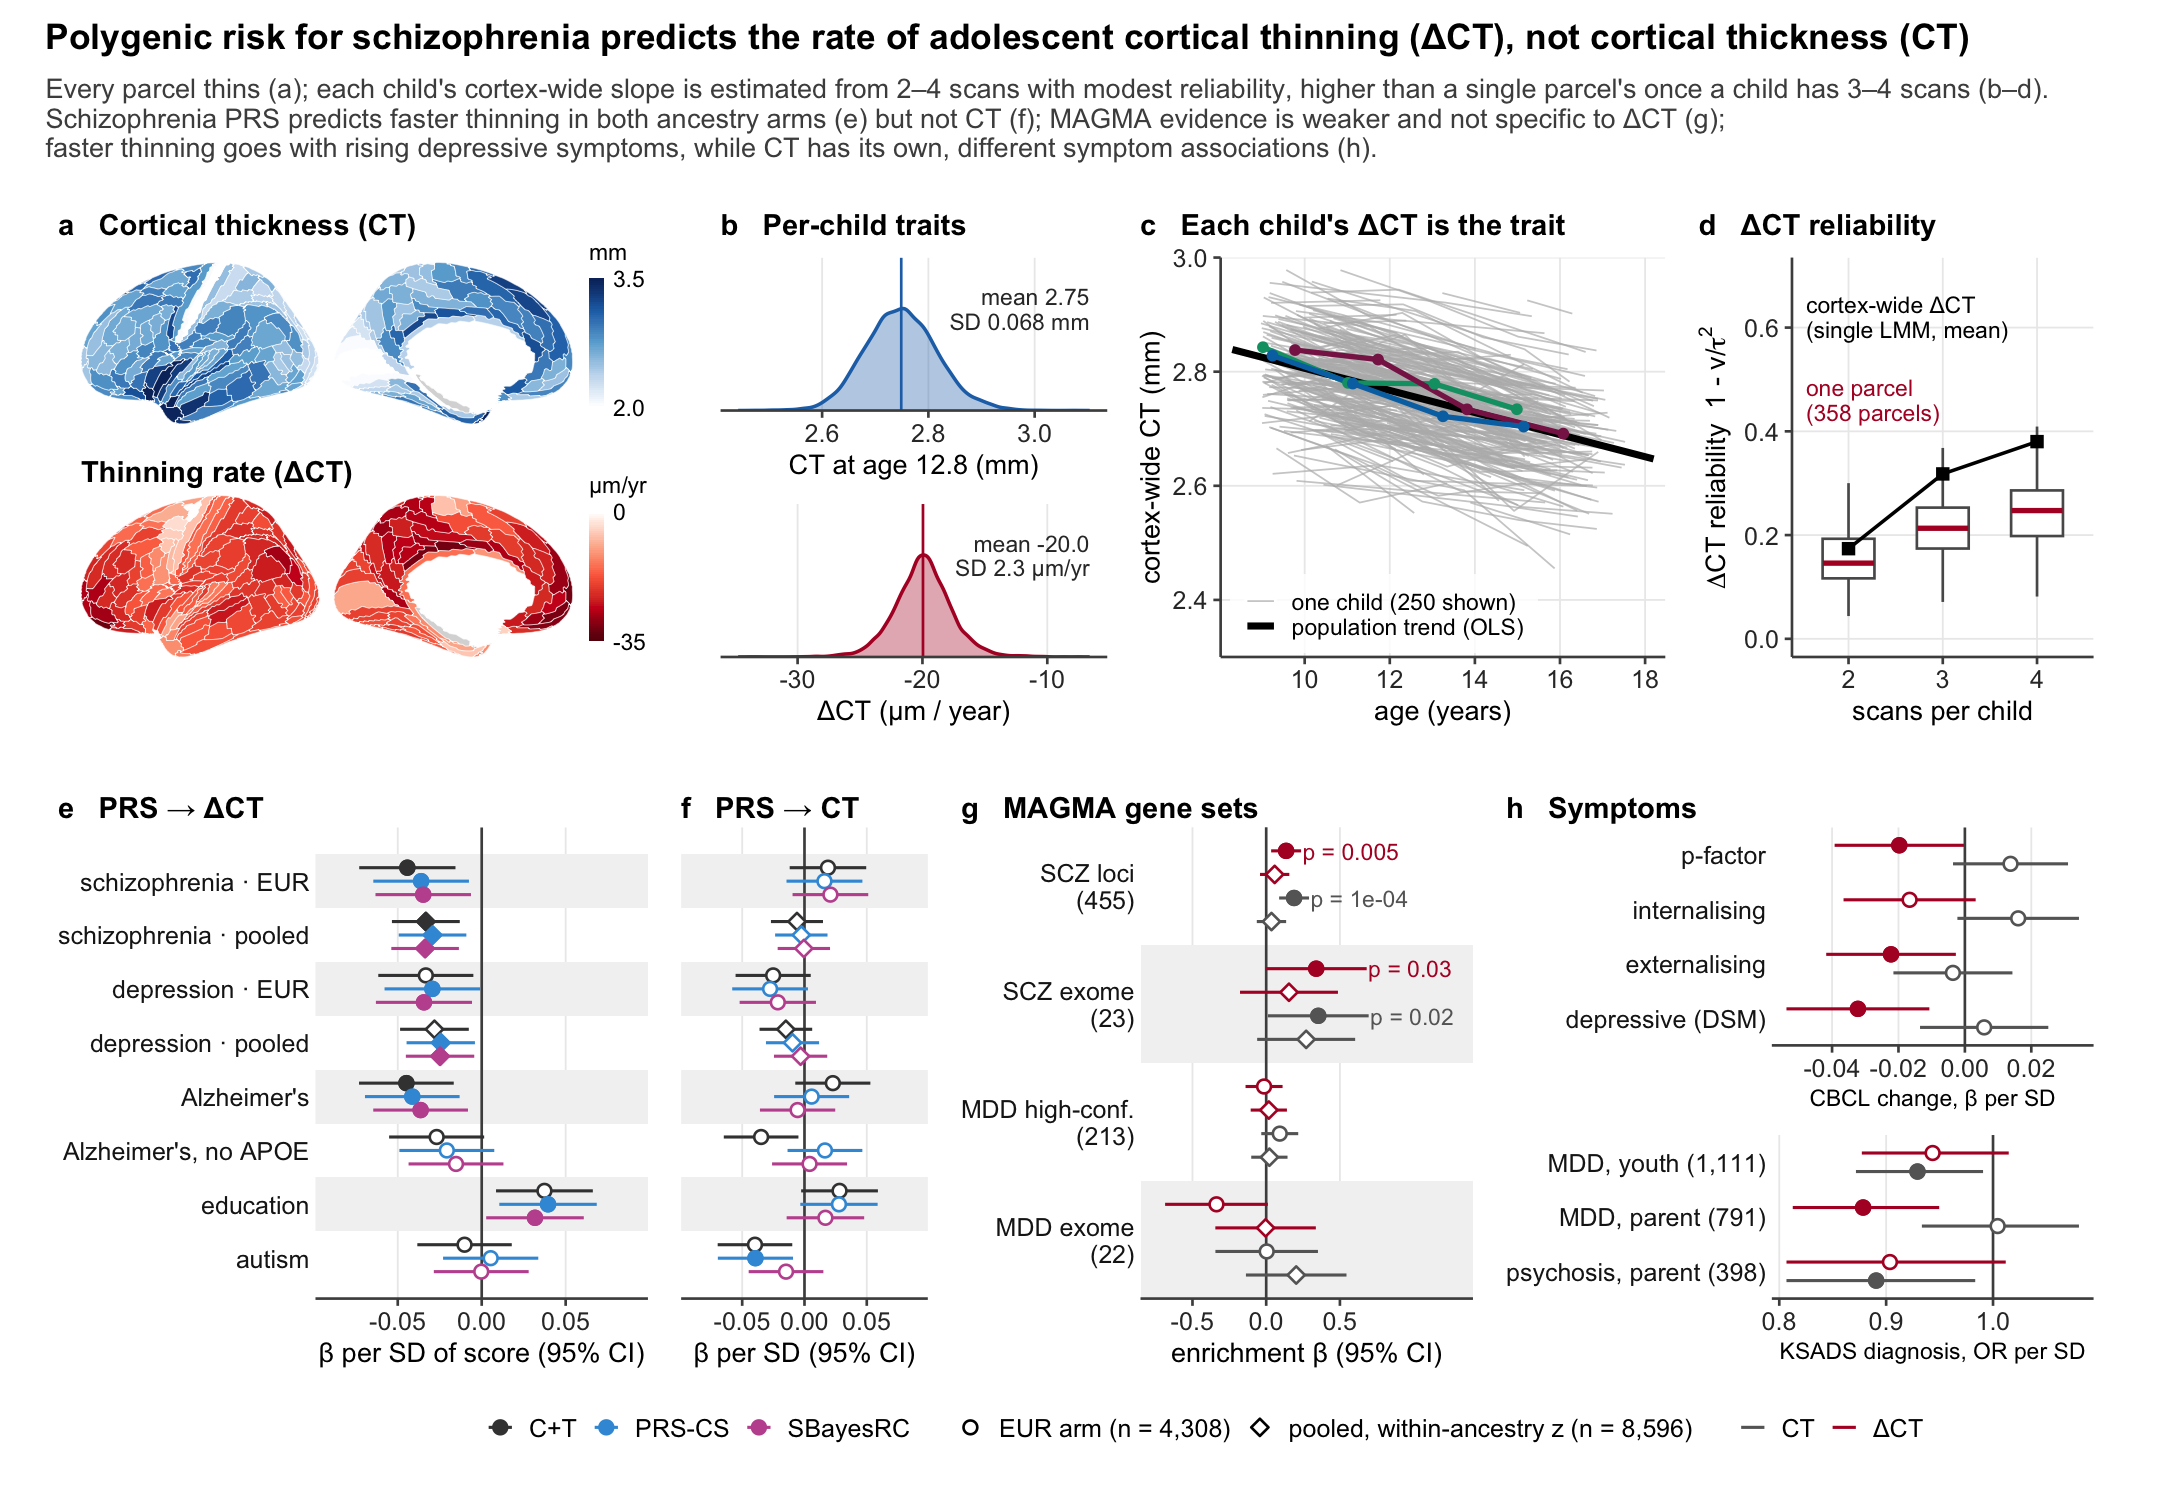
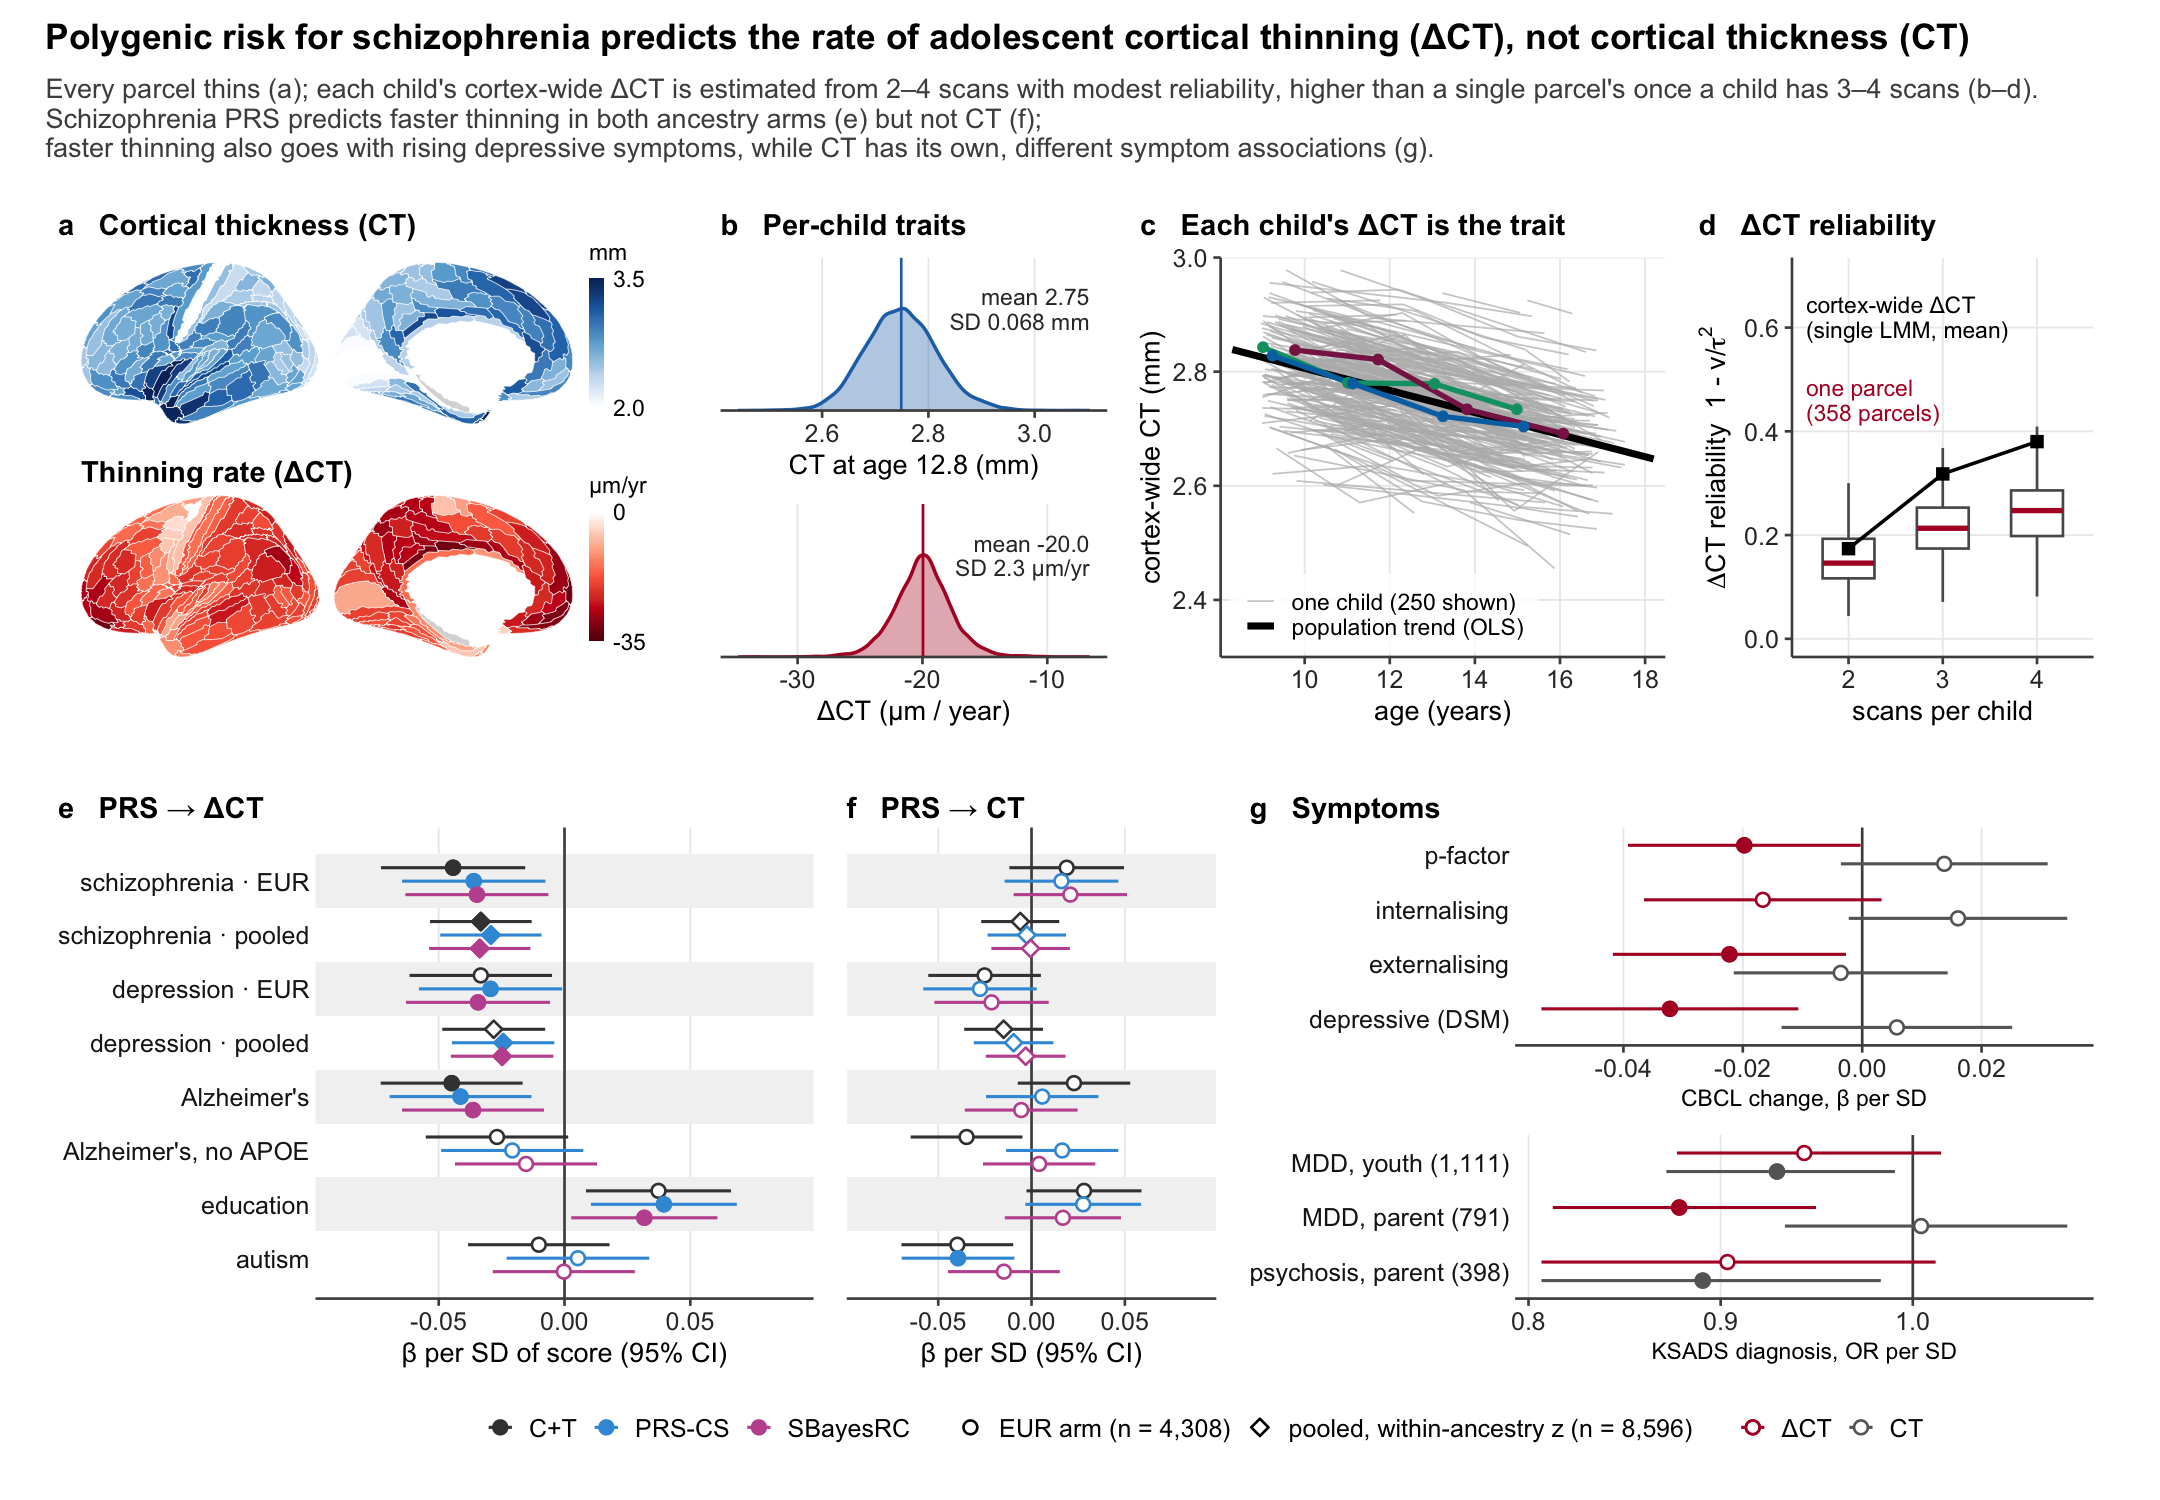
fig1: MAGMA panel removed (to SI); symptoms panel becomes g
Step 15 (0fbfe91) put ABCD's own EUR children behind the EUR-arm gene
analysis, and no gene set survives the matched LD reference on the ΔCT
phenotype (HCP, EUR_1000G -> EUR_ABCD): SCZ ST12 locus pool p .0046 -> .15,
SCZ exome .026 -> .050, MDD high-confidence .59 -> .31, MDD exome .97 -> .55.
The 1000G-EUR (n=503) enrichment was an LD-reference artefact, and it was
never ΔCT-specific anyway (CT equally or more enriched).  MAGMA carries no
direction and the directional genetic claim rests on e-f, so the panel added
no support the figure needs.  Seven panels now; e | f | g widths
0.62/0.46/0.72; CT/ΔCT colour key moved to g.  The caption's SI note states
the null so the result is reported, not dropped.  The fig1_inputs MAGMA
tables stay committed for the SI figure.

diff --git a/docs/figures/fig1_caption.md b/docs/figures/fig1_caption.md
@@ -4,14 +4,13 @@ CT and ΔCT are the intercept and slope of one linear mixed model per region (a)
 - **a** Group maps per parcel (bilateral mean, left hemisphere shown): mean per-child CT (1.7–3.8 mm) and ΔCT (-33 to -0.1 µm / year).
 - **b** Distributions of the two per-child traits from the single LMM on the per-scan cortical mean (8,716 children with 2 / 3 / 4 scans: 2,205 / 3,508 / 3,003; 26,946 scans): CT and ΔCT, the phenotypes of e–h. Per-child estimates are shrunk toward the mean (SD 2.3 µm/yr against a model between-child SD of 4.2 µm/yr); every child's estimated slope is negative.
 - **c** Per-scan cortical mean vs age for 250 random children (grey), three children with four scans (colour), population OLS trend -19 µm / year (black).
-- **d** Slope reliability 1 − v/τ², where v is a child's conditional (posterior) variance of the slope random effect and τ² the between-child slope variance: boxes, per-parcel LMMs (358 parcels; each value the mean over children; medians 0.15 / 0.21 / 0.25 for 2 / 3 / 4 scans); squares, the single LMM on the cortical mean (mean over children 0.17 / 0.32 / 0.38).
+- **d** ΔCT reliability 1 − v/τ², where v is a child's conditional (posterior) variance of the slope random effect and τ² the between-child slope variance: boxes, per-parcel LMMs (358 parcels; each value the mean over children; medians 0.15 / 0.21 / 0.25 for 2 / 3 / 4 scans); squares, the single LMM on the cortical mean (mean over children 0.17 / 0.32 / 0.38).
 - **e, f** PRS association with ΔCT (e) and CT (f); β per SD with 95% CI. Schizophrenia (2025 GWAS): ΔCT 3/3 EUR / 3/3 pooled, CT 0/3 / 0/3. Alzheimer's 3/3 with APOE, 0/3 without; depression 2/3 / 2/3; education 2/3 (opposite sign); autism 0/3.
-- **g** MAGMA competitive gene-set enrichment (ΔCT red, CT grey; ○ EUR arm on 1000 Genomes EUR LD, ◇ pooled arm on the ABCD sample as its own LD reference; n.d. = not run). Common-variant sets: SCZ curated loci (Trubetskoy 2022 ST12, 455 genes) and MDD2025 high-confidence genes (213). Rare-variant (exome) sets: SCZ, genes at q < 0.05 in the 2025 exome meta-analysis (doi:10.1038/s41467-025-62429-y, Supplementary Data 2; 23 testable here); MDD, genes associated with depressive symptoms in UK Biobank exomes (doi:10.1038/s41380-024-02804-1, ST7 single-variant p < 5 × 10⁻⁸ and ST9 gene-based q < 0.05; 22 testable). SCZ exome p, ΔCT / CT: EUR 0.03 / 0.02, pooled 0.18 / 0.05, i.e. not specific to ΔCT (like the SCZ loci); MDD exome p ≥ 0.12.
-- **h** Symptoms against the same single-LMM phenotypes (ΔCT red, CT grey; each fitted alone; filled = p < 0.05). CBCL (parent report, log1p raw scale sums): symptoms at ages ~15–17 (mean of the available waves 5–7) adjusted for the same score at baseline (ANCOVA; not a difference score and not a per-child symptom slope), y_late ~ phenotype + y_baseline + age_late + sex + site, β in SD of y_late. KSADS: diagnosis (present or past) at any administered session from baseline to year 6, i.e. lifetime and including baseline cases, logistic with age at the last CBCL, odds ratio per SD. Both phenotypes are signed as in e–f (ΔCT negative = faster thinning), so β < 0 or OR < 1 means more symptoms with faster thinning or with thinner cortex. Estimates are unchanged when both phenotypes enter one model (CT–ΔCT r = 0.06). Family-clustered SEs; n = 8,189 (CBCL change) and 8,716 (KSADS). Faster thinning goes with rising depressive symptoms (p = 0.003) and parent-reported MDD (OR 0.88, p = 0.001); thinner cortex (CT) goes with youth-reported MDD (OR 0.93, p = 0.02) and parent-reported psychosis spectrum (OR 0.89, p = 0.02). Exploratory, uncorrected.
+- **g** Symptoms against the same single-LMM phenotypes (ΔCT red, CT grey; each fitted alone; filled = p < 0.05). CBCL (parent report, log1p raw scale sums): symptoms at ages ~15–17 (mean of the available waves 5–7) adjusted for the same score at baseline (ANCOVA; not a difference score and not a per-child symptom slope), y_late ~ phenotype + y_baseline + age_late + sex + site, β in SD of y_late. KSADS: diagnosis (present or past) at any administered session from baseline to year 6, i.e. lifetime and including baseline cases, logistic with age at the last CBCL, odds ratio per SD. Both phenotypes are signed as in e–f (ΔCT negative = faster thinning), so β < 0 or OR < 1 means more symptoms with faster thinning or with thinner cortex. Estimates are unchanged when both phenotypes enter one model (CT–ΔCT r = 0.06). Family-clustered SEs; n = 8,189 (CBCL change) and 8,716 (KSADS). Faster thinning goes with rising depressive symptoms (p = 0.003) and parent-reported MDD (OR 0.88, p = 0.001); thinner cortex (CT) goes with youth-reported MDD (OR 0.93, p = 0.02) and parent-reported psychosis spectrum (OR 0.89, p = 0.02). Exploratory, uncorrected.
 
 Methods
 - ABCD release 7.0, HCP-MMP1.0 (358 parcels; 1 lh polygon without a value drawn grey); 8,716 children with >= 2 QC-passing scans.
 - Slope model: thickness ~ age + sex + (1 + age | child) + (1 | site), per parcel (a, d) and on the per-scan cortical mean (c, e–g); the trait is the child's age slope.
 - PRS: C+T, PRS-CS, SBayesRC; EUR arm scored with European discovery GWAS, pooled arm with multi-ancestry GWAS, z-scored within ancestry cluster; model score + age + sex + 10 PCs + (1 | family); filled = p < 0.05 (C+T corrected over its thresholds).
-- MAGMA competitive gene-set test; EUR arm on 1000 Genomes EUR LD; pooled arm on the ABCD analysis sample as LD reference.
+- MAGMA gene-set tests (SCZ/MDD common-variant and exome sets, three LD references) are in Supplementary Information: no set is enriched for ΔCT once ABCD's own EUR children are the LD reference.
 - Sensitivity analyses (DK parcellation, mean of per-parcel slopes, PGC3 2022 GWAS, SBayesR, per-ancestry strata) in Supplementary Information.
